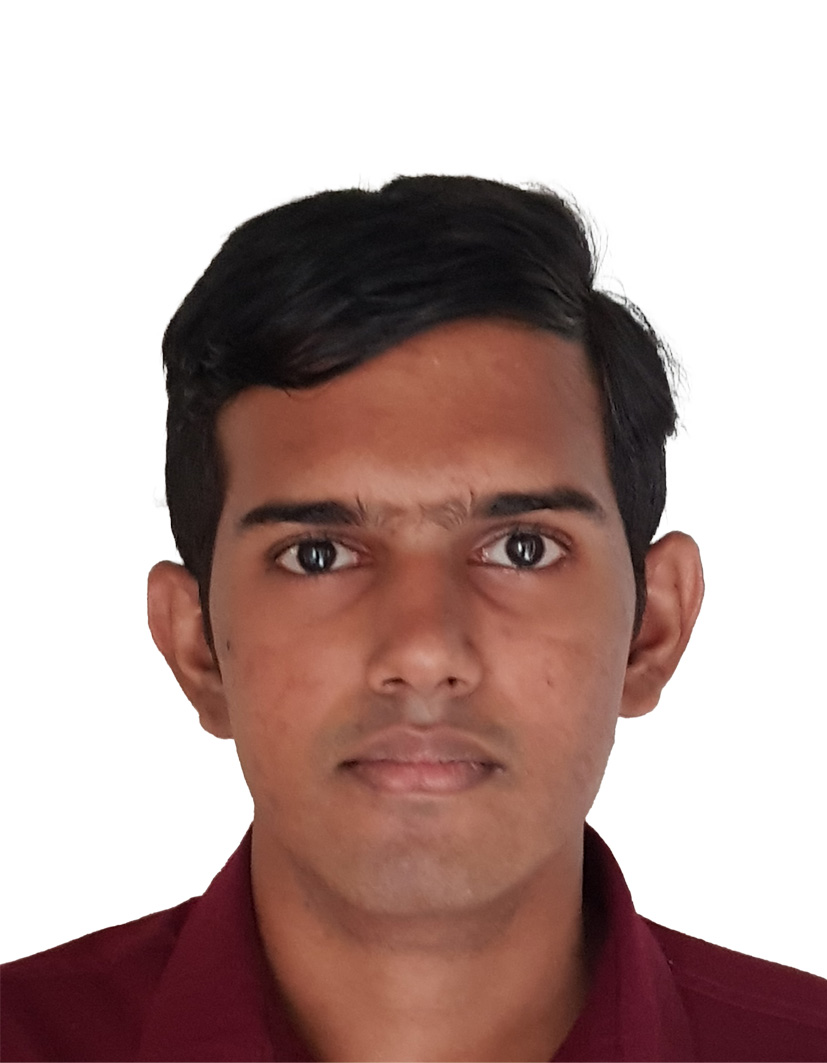
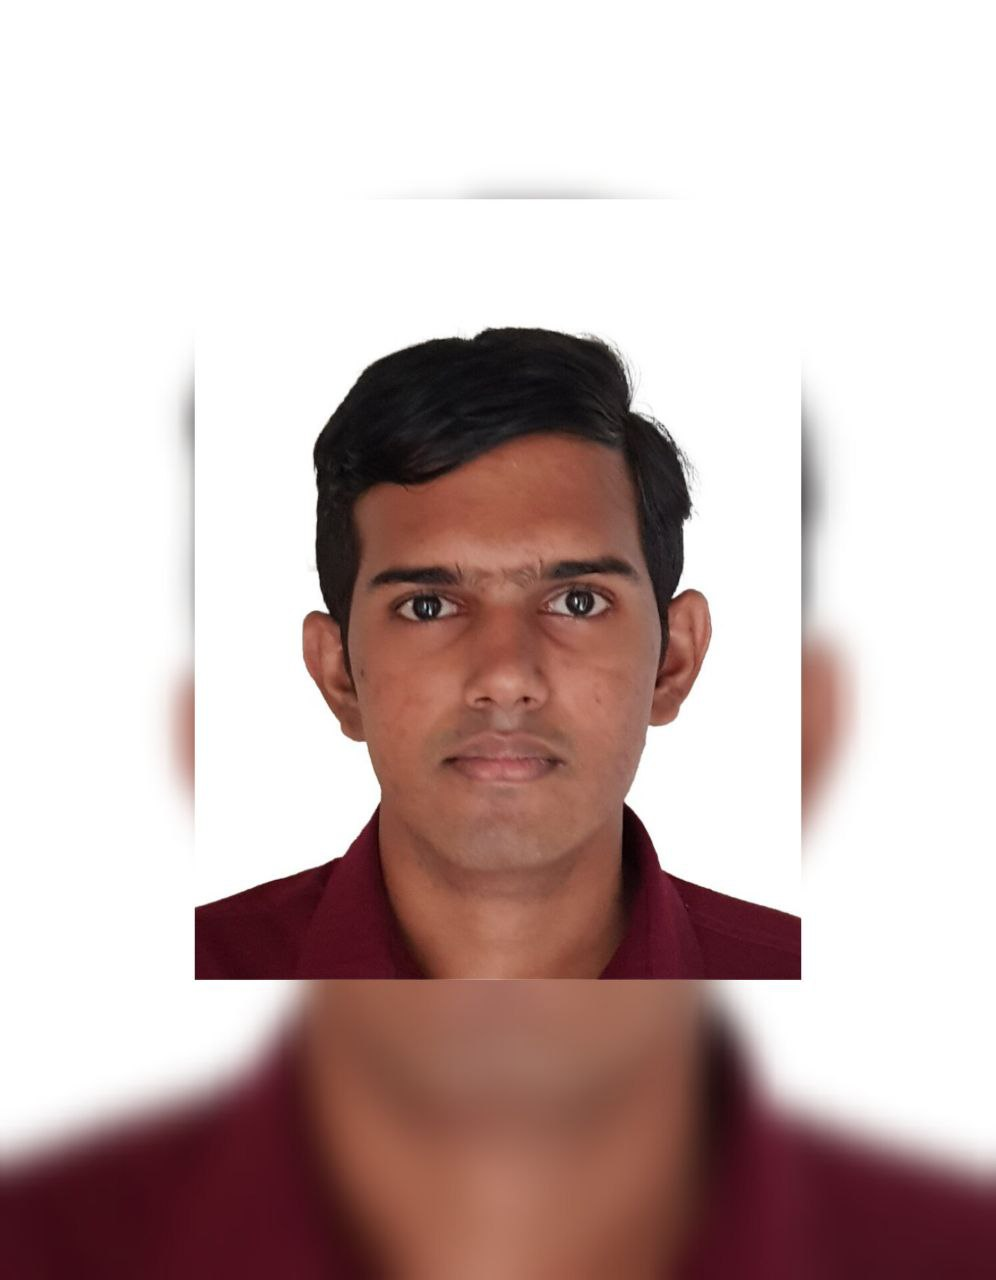
added images

diff --git a/frontend/src/App.tsx b/frontend/src/App.tsx
@@ -19,6 +19,7 @@ import axios from "axios";
 
 import PyaraImage from './assets/Pyara.jpg';
 import NemsaraImage from './assets/Nemsara.jpg';
+import VinukaImage from './assets/Arampath.jpg';
 import SanhidaImage from './assets/Sanhida.jpg';
 import DileeshaImage from './assets/Dileesha.jpg';
 import JoelImage from './assets/Joel.jpg';
@@ -220,7 +221,7 @@ function App() {
             {[
               { name: 'Pyara Perera', role: 'Team Leader', image: PyaraImage },
               { name: 'Nemsara Ranaba', role: 'Team Member', image: NemsaraImage },
-              { name: 'Vinuka Arampath', role: 'Team Member', image: 'https://images.unsplash.com/photo-1500648767791-00dcc994a43e?auto=format&fit=crop&q=80' },
+              { name: 'Vinuka Arampath', role: 'Team Member', image: VinukaImage },
               { name: 'Sanhida Gimhan', role: 'Team Member', image: SanhidaImage },
               { name: 'Joel Lawrence', role: 'Team Member', image: JoelImage },
               { name: 'Dileesha Devendra', role: 'Team Member', image: DileeshaImage }
